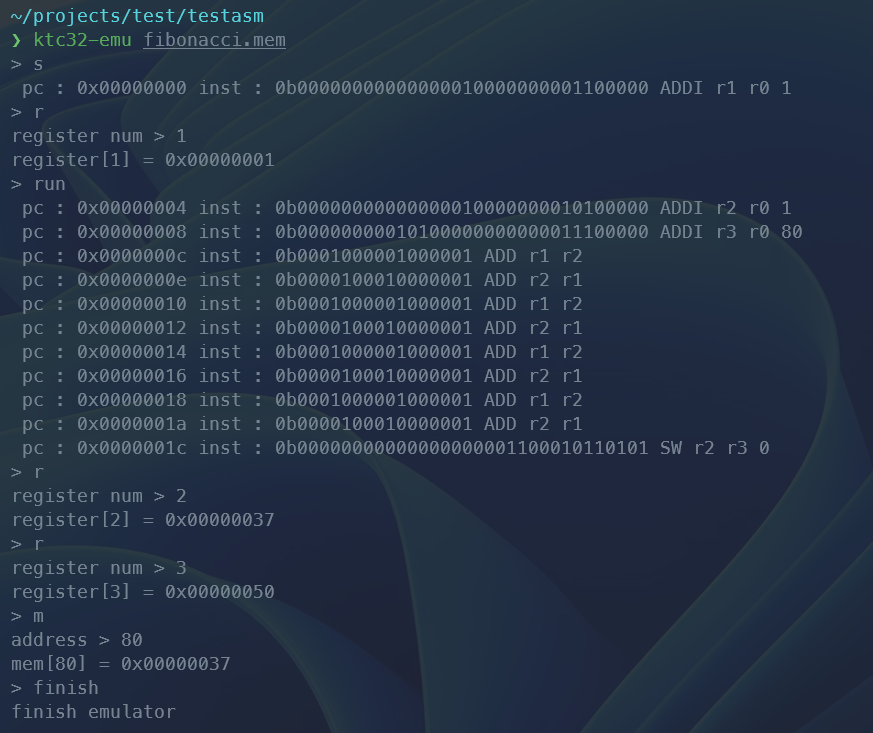
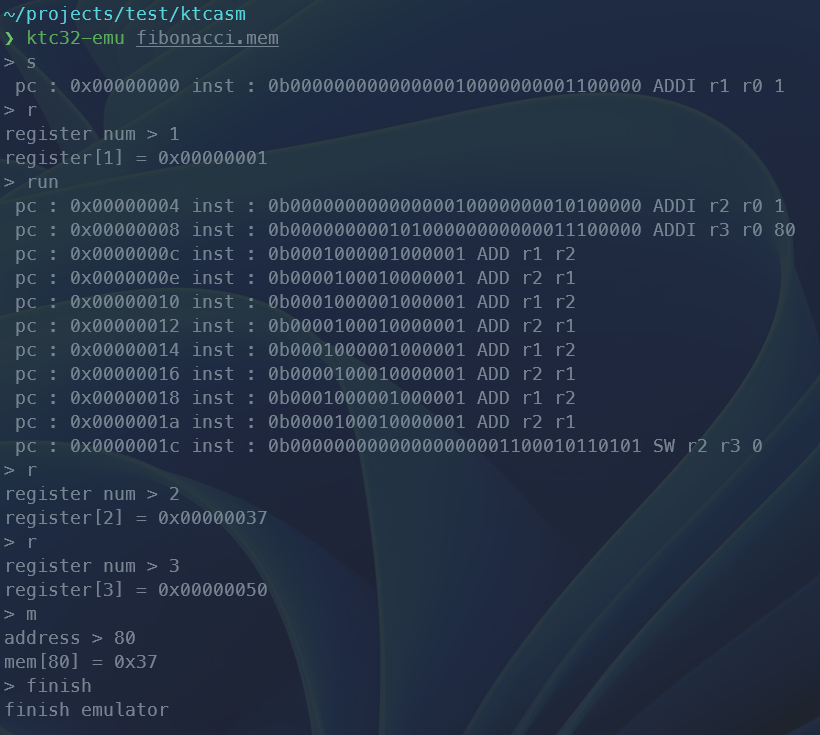
Add help command

Changed region(s): [[0.0, 0.0, 0.9756, 0.9905], [0.9146, 0.09, 0.9451, 0.1201]]

diff --git a/src/main.rs b/src/main.rs
@@ -100,7 +100,7 @@ fn main() -> Result<()> {
                             println!("invalid address");
                             input.clear();
                         } else {
-                            println!("mem[{}] = 0x{:08x}", n, emu.memory.memory_array[n as usize]);
+                            println!("mem[{}] = 0x{:02x}", n, emu.memory.memory_array[n as usize]);
                             input.clear();
                         }
                     }
@@ -135,7 +135,7 @@ fn main() -> Result<()> {
                                 Ok(d) => {
                                     emu.memory.memory_array[n as usize] = d;
                                     println!(
-                                        "mem[{}] = 0x{:08x}",
+                                        "mem[{}] = 0x{:02x}",
                                         n, emu.memory.memory_array[n as usize]
                                     );
                                     input.clear();
@@ -217,6 +217,27 @@ fn main() -> Result<()> {
                         input.clear();
                     }
                 };
+            }
+            "h" | "help" => {
+                println!("run           : continue to execute until break point");
+                println!();
+                println!("s, step       : step execute");
+                println!();
+                println!("b, breakpoint : set breakpoint");
+                println!();
+                println!("m, mem        : display data in memory");
+                println!();
+                println!("wm, writemem  : write data to memory");
+                println!();
+                println!("r, reg        : display data in register");
+                println!();
+                println!("wr, writereg  : write data to register");
+                println!();
+                println!("h, help       : show this message");
+                println!();
+                println!("finish        : finish emulator");
+
+                input.clear();
             }
             "finish" => {
                 println!("finish emulator");
